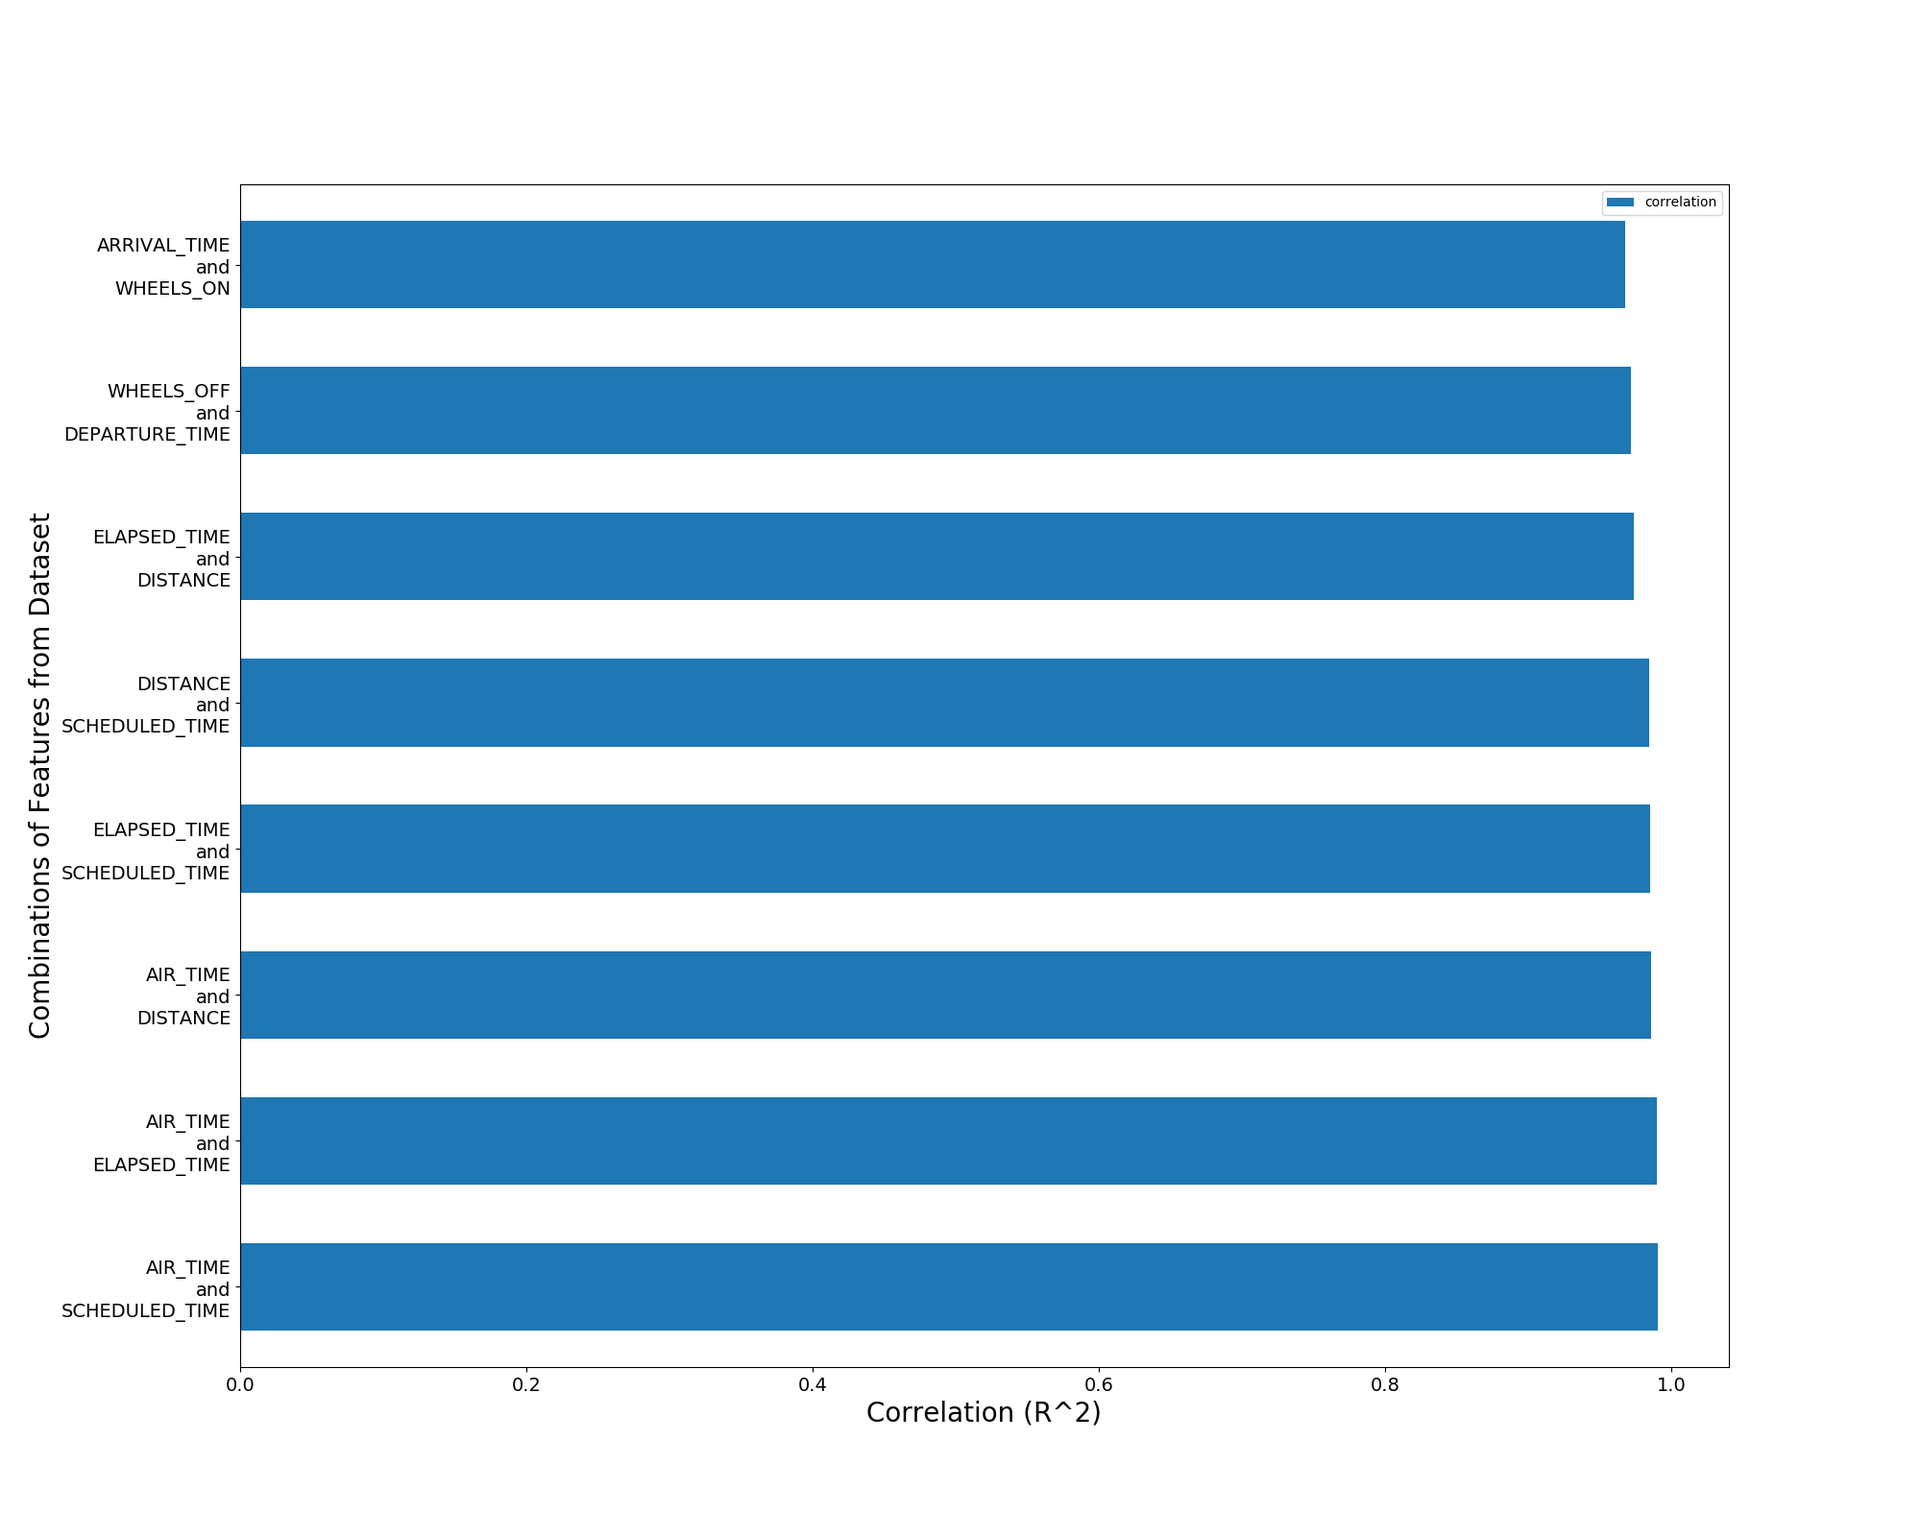
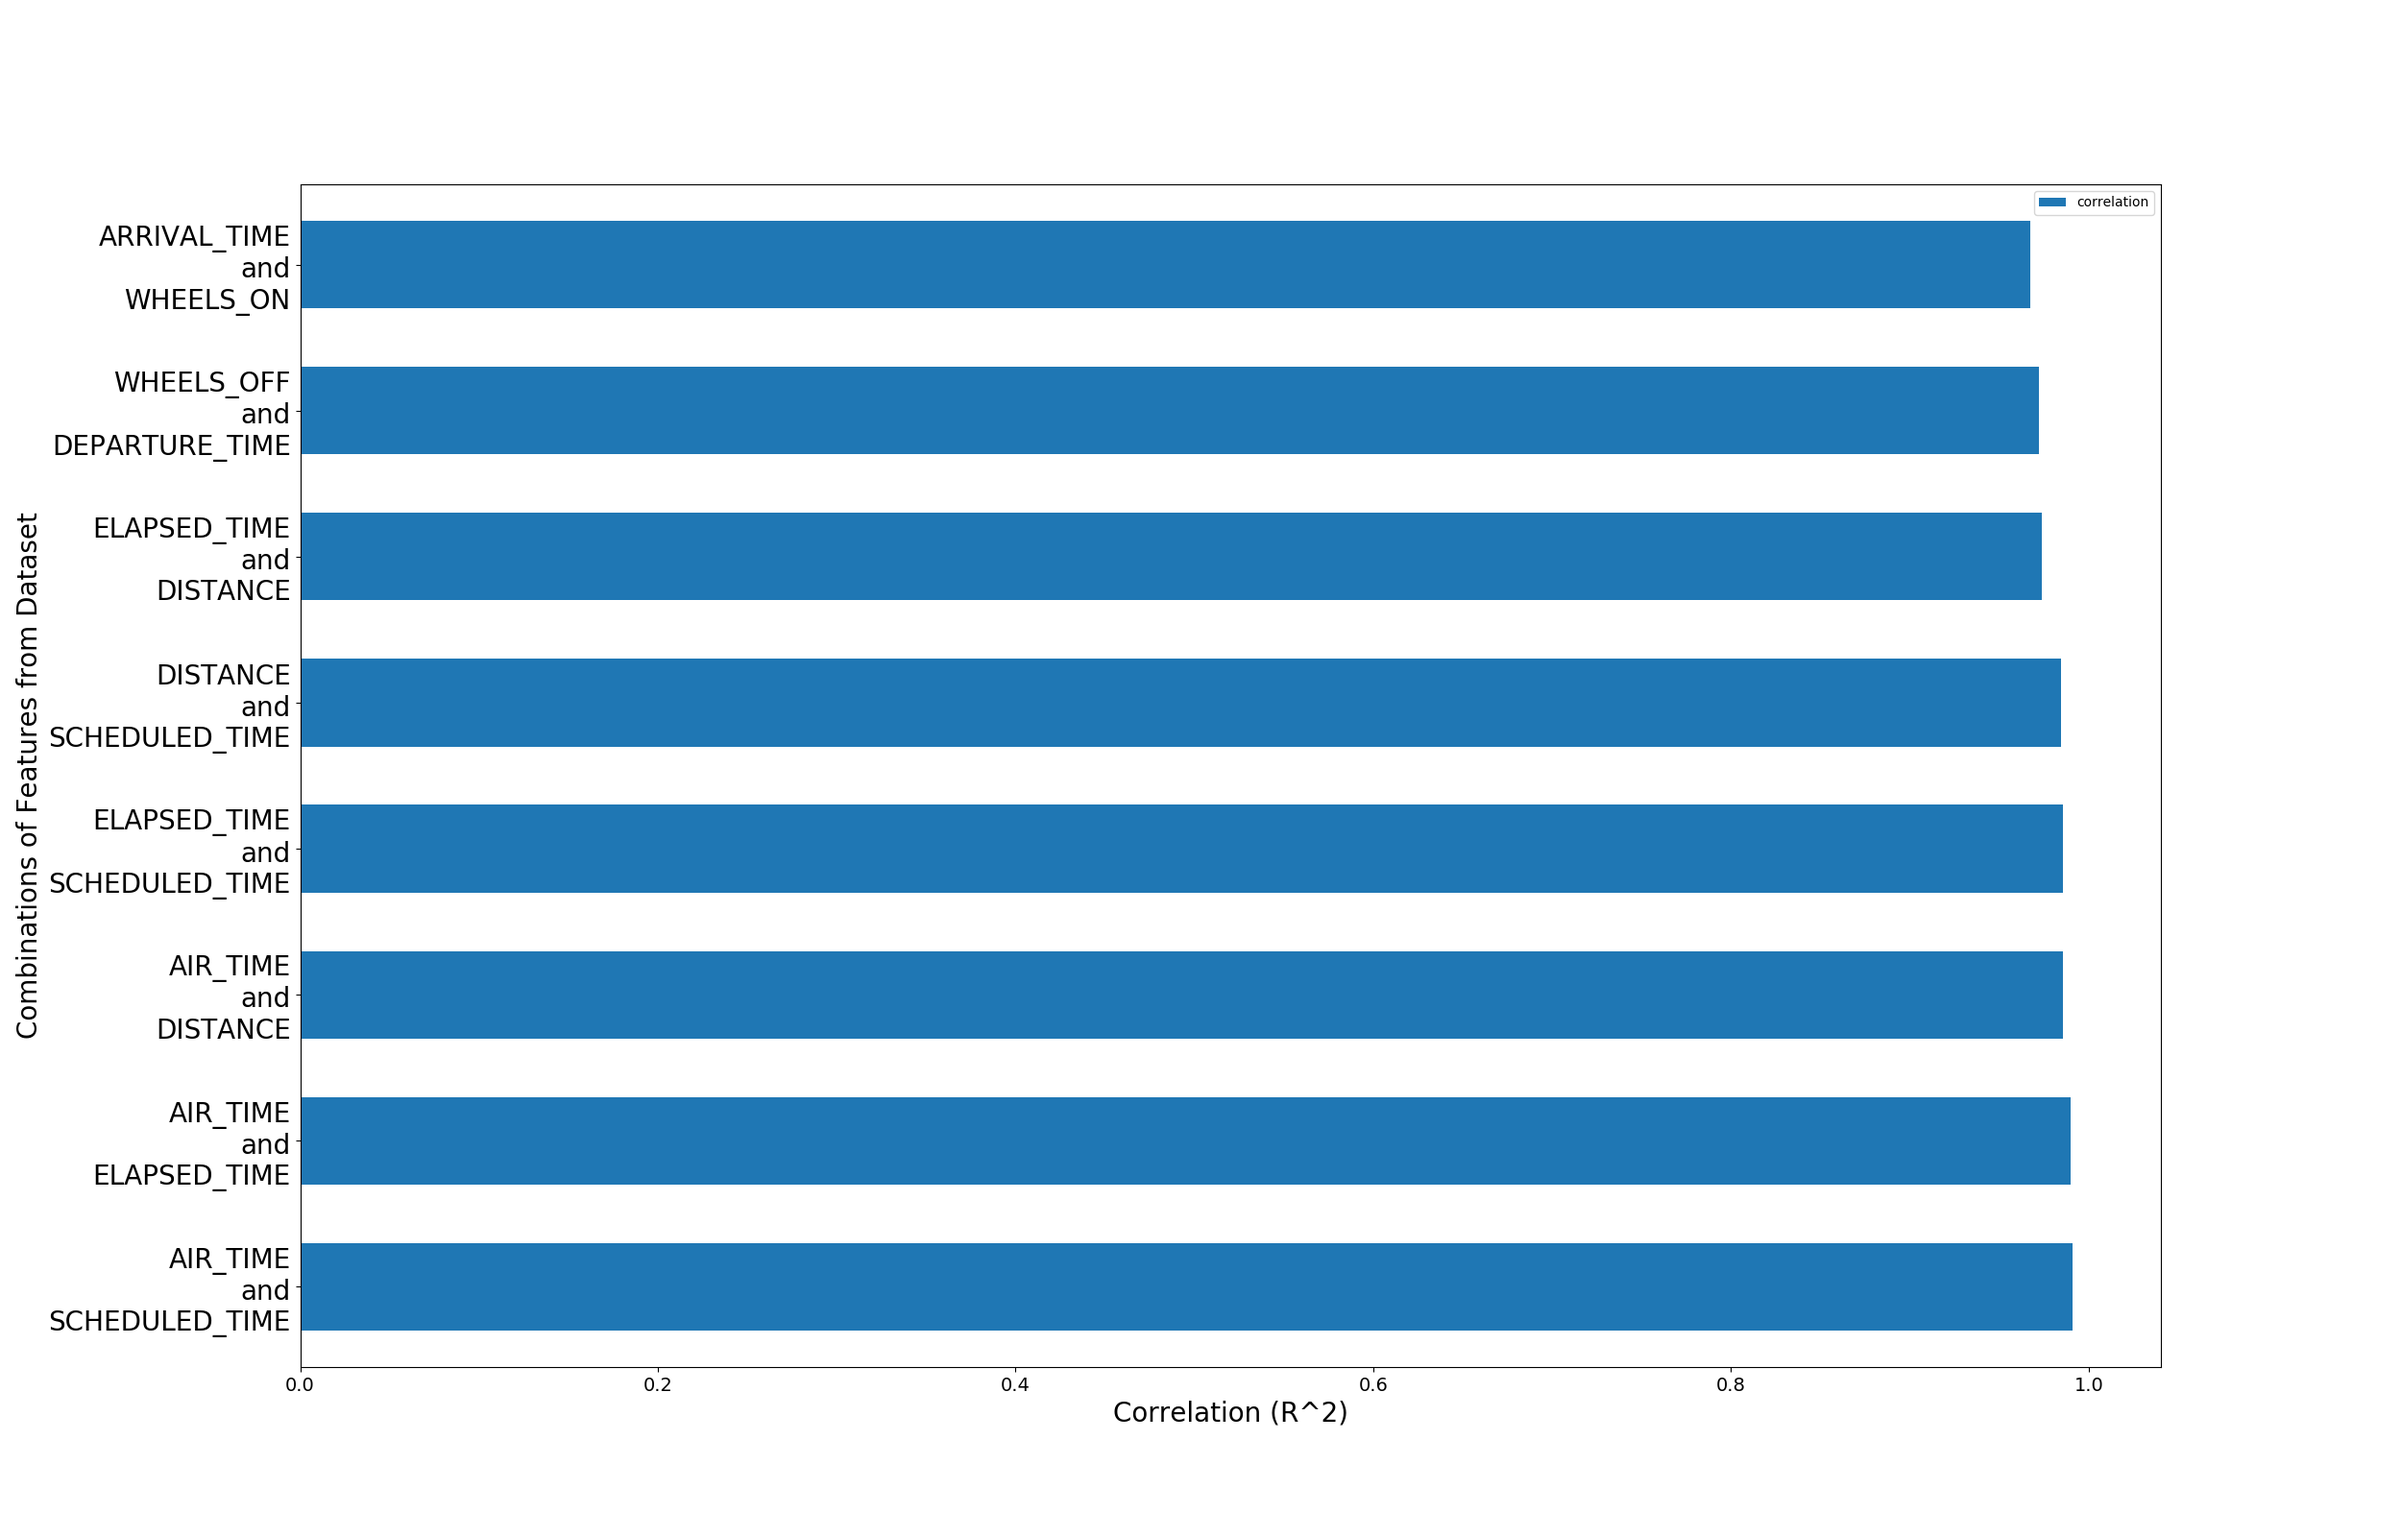
Update 19

diff --git a/Figures.py b/Figures.py
@@ -29,8 +29,10 @@ ax1.scatter(decisiontree_cross_val_results['test_score'], decisiontree_cross_val
 ax1.scatter(randomforest_cross_val_results['test_score'], randomforest_cross_val_results['fit_time'], s=100, c='tab:blue', marker="o", label='Random Forest')
 ax1.scatter(adaboost_cross_val_results['test_score'], adaboost_cross_val_results['fit_time'], s=100, c='tab:orange', marker="o", label='AdaBoost')
 plt.legend(loc='upper left')
-plt.xlabel('Cross Validation Test Scores (r-squared metric)')
-plt.ylabel('Model Fit Time (seconds)')
+plt.xlabel('Cross Validation Test Scores (r-squared metric)', fontsize=20)
+plt.ylabel('Model Fit Time (seconds)', fontsize=20)
+plt.yticks(fontsize=12)
+plt.xticks(fontsize=12)
 plt.savefig('Charts/fit_time_scatterplot.png')
 
 randomforest_cross_val_results = pd.read_csv("RandomForest_full_crossval_results.csv")

diff --git a/DataExploreAnalyze.py b/DataExploreAnalyze.py
@@ -155,10 +155,10 @@ def corr_bar_chart(file):
   corrmatrix = corrmatrix.head(8)
   corrmatrix['feature_both'] = corrmatrix['feature_1'] + "\nand\n" + corrmatrix['feature_2']
   corrmatrix.drop(columns=['feature_1', 'feature_2', 'Unnamed: 0', 'index'])
-  corrmatrix.plot(kind='barh', x='feature_both', y='correlation', figsize=(20,16), width=.6)
+  corrmatrix.plot(kind='barh', x='feature_both', y='correlation', figsize=(25,16), width=.6)
   plt.xlabel('Correlation (R^2)', fontsize=20)
   plt.ylabel('Combinations of Features from Dataset', fontsize=20)
-  plt.yticks(fontsize=14)
+  plt.yticks(fontsize=20)
   plt.xticks(fontsize=14)
   plt.savefig('Charts/flights_correlation_bar_chart.png')
 

diff --git a/DecisionTreeTest.py b/DecisionTreeTest.py
@@ -17,7 +17,7 @@ output_test_y = pd.read_csv("output_data/output_test_y.csv")
 output_train_x = pd.read_csv("output_data/output_train_x.csv")
 output_train_y = pd.read_csv("output_data/output_train_y.csv")
 
-#test and score
+#test, score, and save tree structure
 clf = tree.DecisionTreeRegressor(max_leaf_nodes=26, max_depth=19)
 clf.fit(output_train_x,output_train_y['ARRIVAL_DELAY'])
 dot_data = tree.export_graphviz(clf, out_file='DecisionTree.dot')
